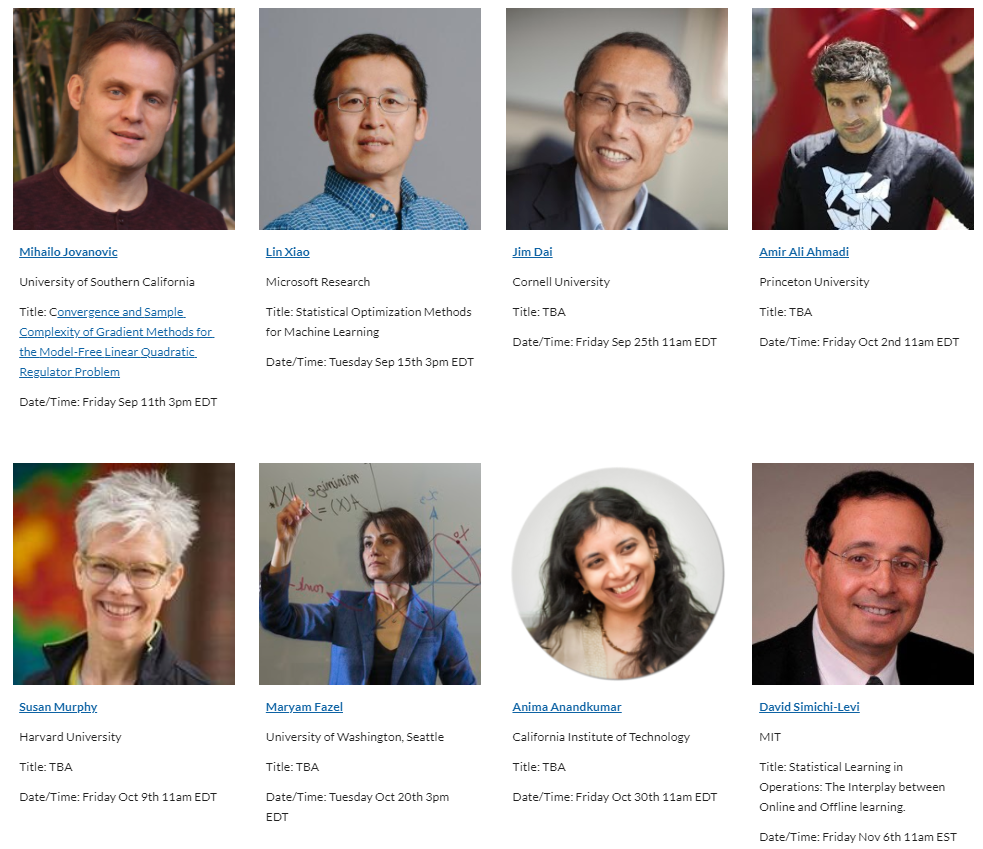
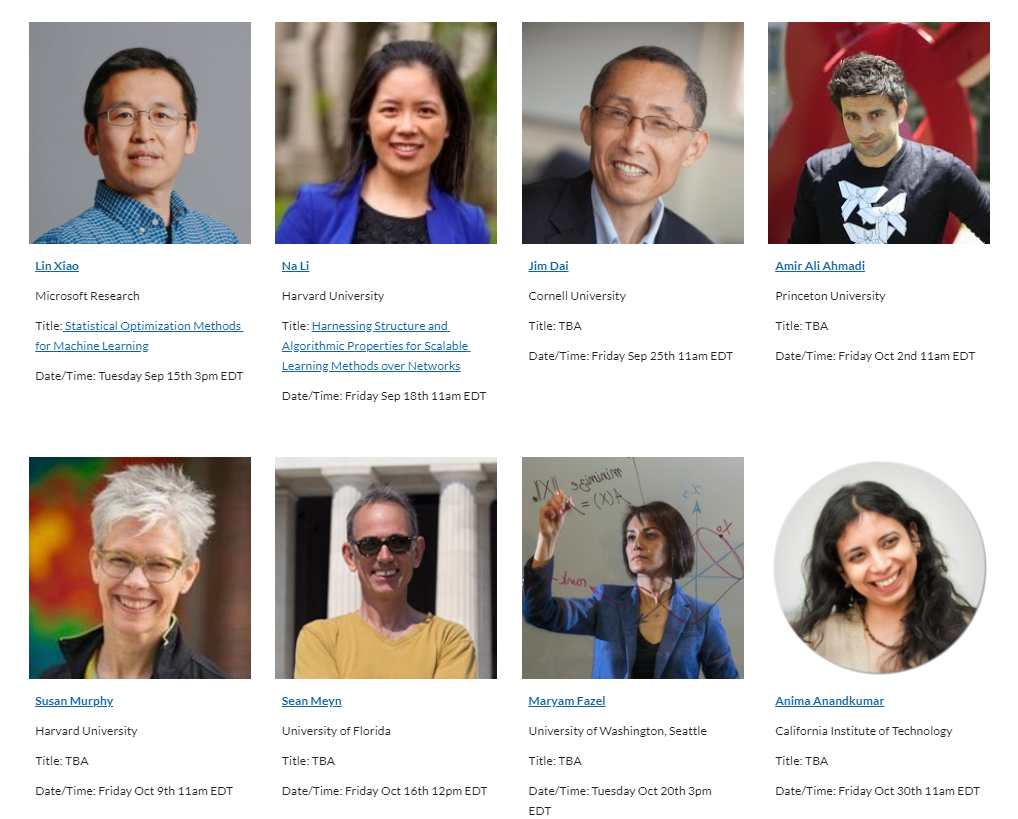
Update Math-for-DS.md

diff --git a/_projects/Math-for-DS.md b/_projects/Math-for-DS.md
@@ -21,15 +21,15 @@ To ask the speaker a question, please use the Q&A function in Zoom to type your 
 
 ## Next speaker
 
- <p align="center"><img width="20%" src="/images/news/MathDS/jovanovic.jpg" /></p>
+ <p align="center"><img width="20%" src="/images/news/MathDS/xiao.jpg" /></p>
 
-##### **Next Speaker:** [**Mihailo Jovanovic**](https://viterbi-web.usc.edu/~mihailo/), University of Southern California
-##### **Date/Time:** Friday, September 11th, 3pm EDT [**[Zoom Link]**](https://psu.zoom.us/j/95512102924) [**[Facebook Link]**](https://www.facebook.com/events/435611574019695)
-##### **Title:** Convergence and Sample Complexity of Gradient Methods for the Model-Free Linear Quadratic Regulator Problem
+##### **Next Speaker:** [**Microsoft Research**](https://www.microsoft.com/en-us/research/people/lixiao/), Microsoft Research
+##### **Date/Time:** Tuesday, September 15th, 3pm EDT [**[Zoom Link]**](https://psu.zoom.us/j/95512102924) [**[Facebook Link]**](https://www.facebook.com/events/788146932025642)
+##### **Title:** Statistical Optimization Methods for Machine Learning
 
-**Abstract:** Model-free reinforcement learning attempts to find an optimal control action for an unknown dynamical system by directly searching over the parameter space of controllers. The convergence behavior and statistical properties of these approaches are often poorly understood because of the nonconvex nature of the underlying optimization problems and the lack of exact gradient computation. In this talk, we discuss performance and efficiency of such methods by focusing on the standard infinite-horizon linear quadratic regulator  problem for continuous-time systems with unknown state-space parameters. We establish exponential stability for the ordinary differential equation (ODE) that governs the gradient-flow dynamics over the set of stabilizing feedback gains and show that a similar result holds for the gradient descent method that arises from the forward Euler discretization of the corresponding ODE. We also provide theoretical bounds on the convergence rate and sample complexity of the random search method with two-point gradient estimates. We prove that the required simulation time for achieving epsilon-accuracy in the model-free setup and the total number of function evaluations both scale as log(1/epsilon).
+**Abstract:** Statistics and optimization are two of the foundational pillars of machine learning, and it is well recognized that optimization provides powerful tools for statistics. In recent years, techniques of the complementary nature, i.e., using statistics to improve optimization algorithms, have become increasingly successful. In this talk, we present several recent works on such statistical optimization methods. First, we discuss how to use statistical hypothesis testing to automatically adjust the learning rate of stochastic gradient methods in training deep neural networks. Then we overview some recent advances in structured nonconvex optimization using stochastic variance reduction techniques. Finally we will briefly explain how to leverage statistical preconditioning to accelerate distributed optimization.
 
-**Bio:** Mihailo R. Jovanovic is a professor in the Ming Hsieh Department of Electrical and Computer Engineering and the founding director of the Center for Systems and Control at the University of Southern California. He was a faculty member in the Department of Electrical and Computer Engineering at the University of Minnesota, Minneapolis, from December 2004 until January 2017, and has held visiting positions with Stanford University and the Institute for Mathematics and its Applications. His current research focuses on large-scale and distributed optimization, design of controller architectures, dynamics and control of fluid flows, and fundamental limitations in the control of large networks of dynamical systems. He serves as an Associate Editor of the IEEE Transactions on Control of Network Systems and had served as a Guest Editor (of the Special Issue on Analysis, Control and Optimization of Energy System Networks in the IEEE Transactions on Control of Network Systems), the Chair of the APS External Affairs Committee, a Program Vice-Chair of the 55th IEEE Conference on Decision and Control, an Associate Editor of the SIAM Journal on Control and Optimization, and an Associate Editor of the IEEE Control Systems Society Conference Editorial Board. Prof. Jovanovic is a fellow of APS and IEEE. He received a CAREER Award from the National Science Foundation in 2007, the George S. Axelby Outstanding Paper Award from the IEEE Control Systems Society in 2013, and the Distinguished Alumnus Award from UC Santa Barbara in 2014.
+**Bio:** Lin Xiao is a senior principal researcher at Microsoft Research located in Redmond, Washington, US. He received his PhD from Stanford University, and was a postdoctoral fellow at California Institute of Technology before joining Microsoft. He currently serves as an associate editor for the SIAM Journal on Optimization, and has served as area chairs for several machine learning conferences including NeurIPS and ICML. He was a winner of the Young Researcher Competition at the first International Conference on Continuous Optimization in 2004 for his work on fastest mixing Markov chains, and won the Test of Time Award at NeurIPS 2019 for his work on the regularized dual averaging method for sparse stochastic optimization. His current research interests include theory and algorithms for large-scale optimization and machine learning, reinforcement learning, and parallel and distributed computing.
 
 
 ## Upcoming Speakers
